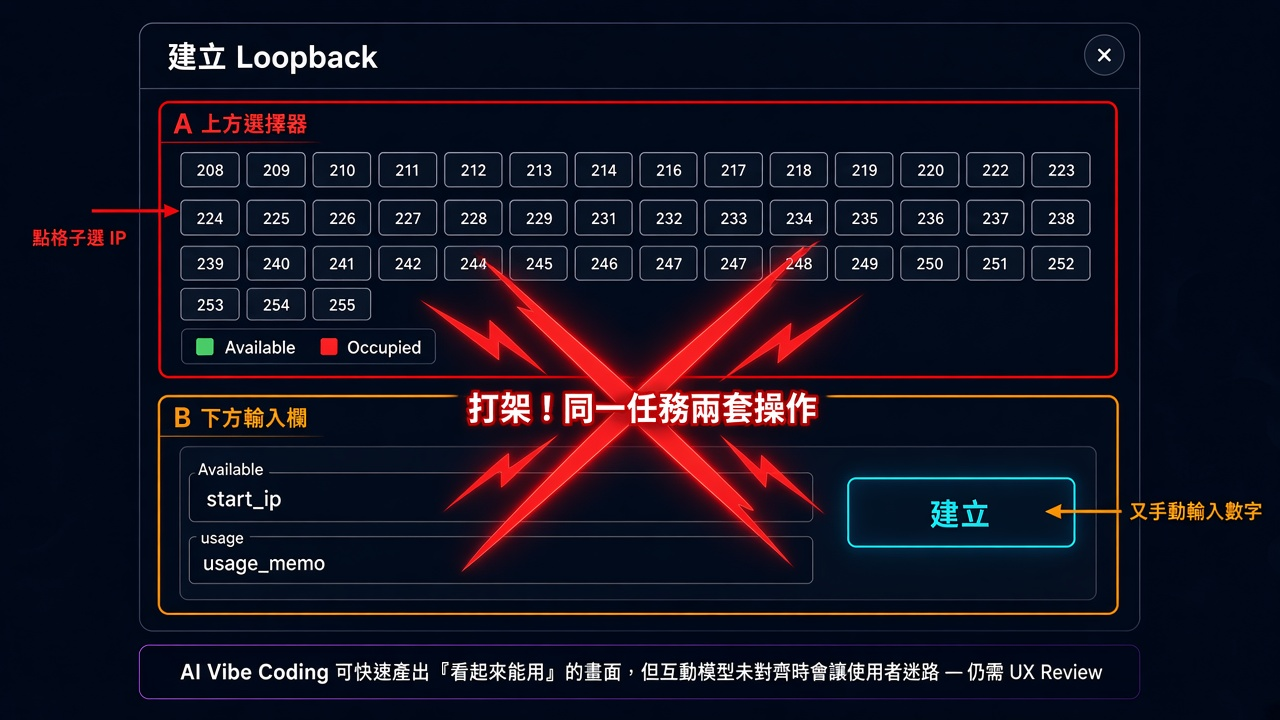
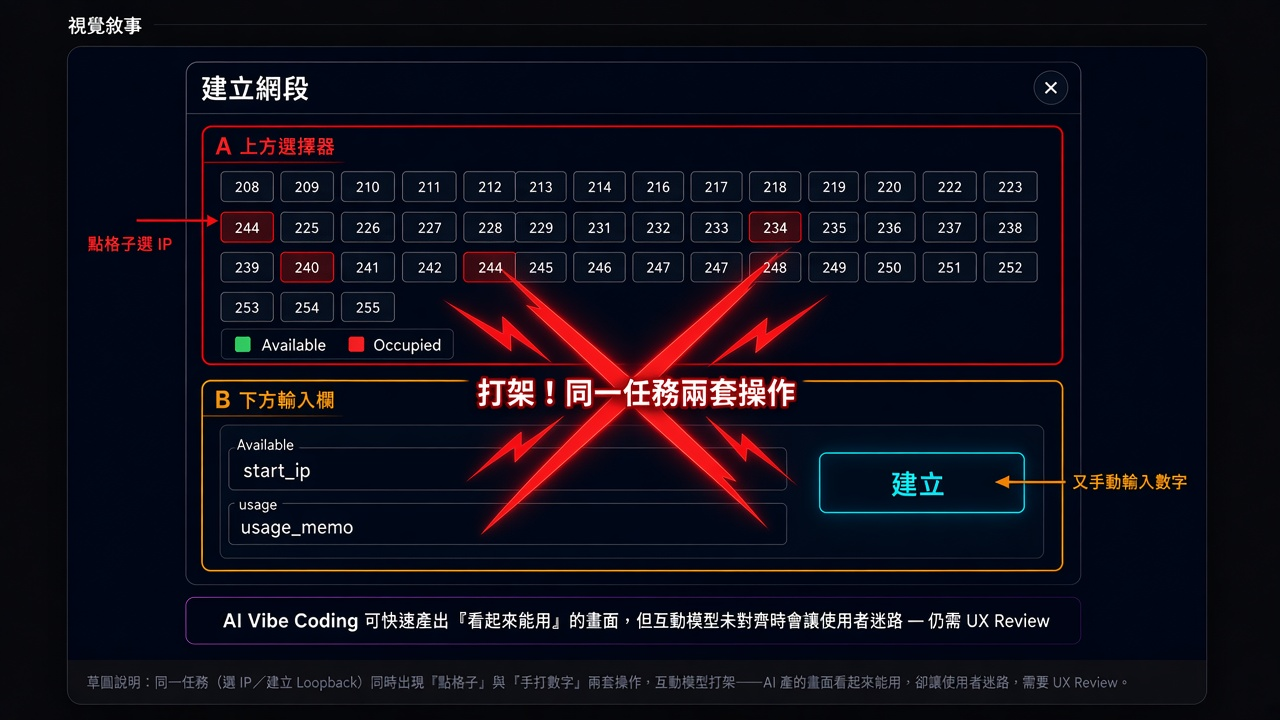
Vibe coding visuals: 建立網段 sketch, drop bad UI shot, redact tokens

Changed region(s): [[0.0, 0.0, 1.0, 0.9778]]

diff --git a/projects/vibe-coding-collaboration.html b/projects/vibe-coding-collaboration.html
@@ -50,8 +50,8 @@
     <h2 class="story-heading">視覺敘事</h2>
         <div class="visual-story">
       <figure class="shot-full">
-          <img src="../images/vibe-coding-collaboration/img_sketch_selector_vs_input.png" alt="草圖：上方選擇器與下方輸入打架" loading="lazy">
-          <figcaption>草圖說明：同一任務（選 IP／建立 Loopback）同時出現「點格子」與「手打數字」兩套操作，互動模型打架——AI 產的畫面看起來能用，卻讓使用者迷路，需要 UX Review。</figcaption>
+          <img src="../images/vibe-coding-collaboration/img_sketch_selector_vs_input.png" alt="草圖：建立網段時上方選擇器與下方輸入打架" loading="lazy">
+          <figcaption>草圖說明：同一任務（選 IP／建立網段）同時出現「點格子」與「手打數字」兩套操作，互動模型打架——AI 產的畫面看起來能用，卻讓使用者迷路，需要 UX Review。</figcaption>
         </figure>
 
 <figure class="shot-full">
@@ -66,16 +66,10 @@
   <img src="../images/vibe-coding-collaboration/img03_rules_first.png" alt="規則先行：Design System／Token → MCP／Skills → Vibe Coding → RD 驗證 → UX Review" loading="lazy">
   <figcaption>規則先行：Design System／Token → MCP／Skills → Vibe Coding → RD 驗證 → UX Review</figcaption>
 </figure>
-<div class="shot-pair">
-<figure>
+<figure class="shot-full">
   <img src="../images/vibe-coding-collaboration/img04_token_theme_redacted.png" alt="Token → Theme：規則先寫進系統，AI／前端才能穩定套用（產品名已遮罩）" loading="lazy">
-  <figcaption>Token → Theme：規則先寫進系統，AI／前端才能穩定套用（產品名已遮罩）</figcaption>
+  <figcaption>Token → Theme：規則先寫進系統，AI／前端才能穩定套用（產品識別已遮罩）</figcaption>
 </figure>
-<figure>
-  <img src="../images/vibe-coding-collaboration/img05_ai_ui_needs_review_redacted.png" alt="AI 可快速產出「看起來能用」的畫面；空狀態、錯誤、權限與可維護性仍需 UX Review（識別已遮罩）" loading="lazy">
-  <figcaption>AI 可快速產出「看起來能用」的畫面；空狀態、錯誤、權限與可維護性仍需 UX Review（識別已遮罩）</figcaption>
-</figure>
-</div>
 
 </div>
 
